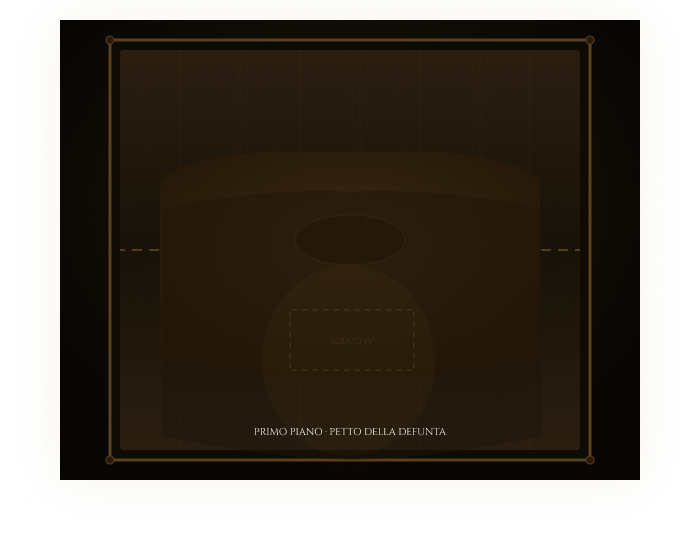
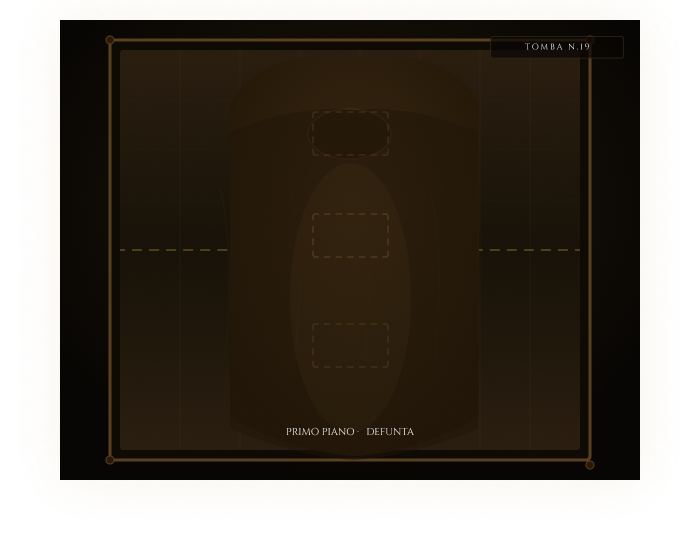
gioco laminetta update

Changed region(s): [[0.36, 0.7704, 0.6, 0.8296], [0.69, 0.0593, 0.87, 0.1185], [0.84, 0.8296, 0.87, 0.8593]]

diff --git a/index.html b/index.html
@@ -1182,6 +1182,54 @@
               ></div>
             </div>
 
+            <!-- Zona TESTA (errata) -->
+            <div
+              class="laminetta-drop-zone"
+              data-laminetta-drop="testa"
+              style="
+                position: absolute;
+                top: 14%;
+                left: 50%;
+                transform: translate(-50%, -50%);
+                z-index: 10;
+              "
+            ></div>
+            <span style="
+              position: absolute;
+              top: 20%;
+              left: 50%;
+              transform: translateX(-50%);
+              font-family: var(--font-serif);
+              font-size: 7px;
+              color: rgba(196,145,58,0.45);
+              letter-spacing: 1.5px;
+              white-space: nowrap;
+            ">TESTA</span>
+
+            <!-- Zona PIEDI (errata) -->
+            <div
+              class="laminetta-drop-zone"
+              data-laminetta-drop="piedi"
+              style="
+                position: absolute;
+                top: 80%;
+                left: 50%;
+                transform: translate(-50%, -50%);
+                z-index: 10;
+              "
+            ></div>
+            <span style="
+              position: absolute;
+              top: 86%;
+              left: 50%;
+              transform: translateX(-50%);
+              font-family: var(--font-serif);
+              font-size: 7px;
+              color: rgba(196,145,58,0.45);
+              letter-spacing: 1.5px;
+              white-space: nowrap;
+            ">PIEDI</span>
+
             <!-- Laminetta animata -->
             <div
               class="laminetta-drop-zone"
@@ -2897,7 +2945,7 @@
         const laminettaPlaced = document.getElementById("laminetta-placed");
         if (!laminettaPlaced) return;
 
-        const dropZone = document.querySelector("[data-laminetta-drop]");
+        const dropZone = document.querySelector("[data-laminetta-drop='petto']");
         if (dropZone) {
           dropZone.dataset.filled = "1";
           dropZone.classList.add("filled");